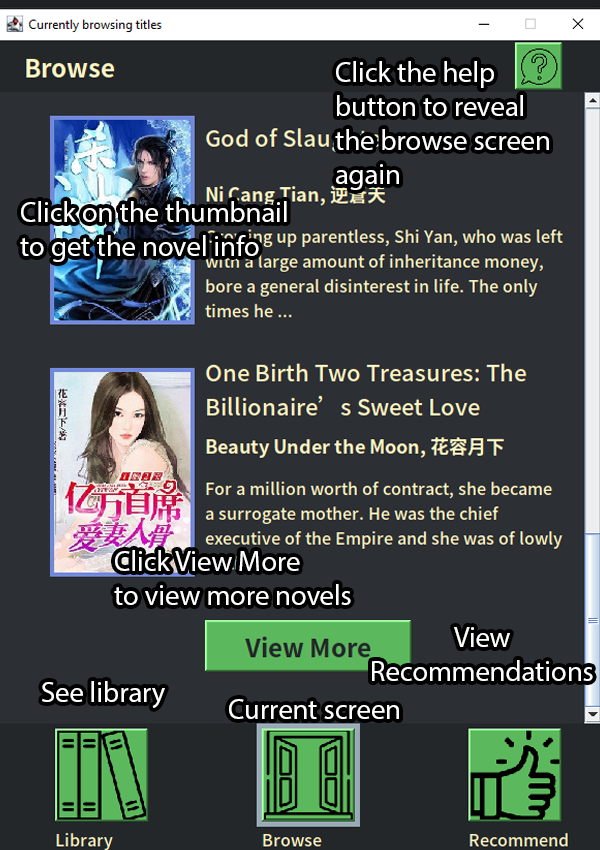
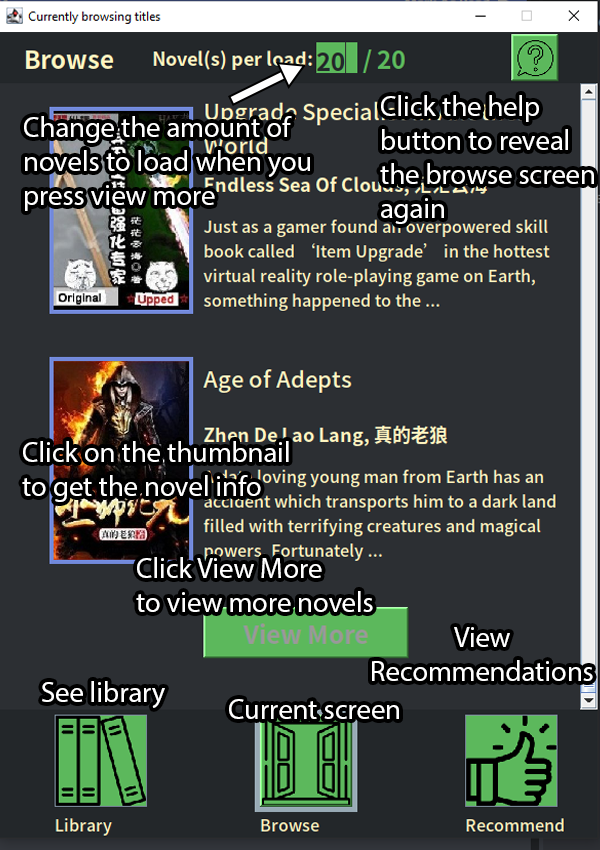
Allow customization for novelsPerLoad on Browse

diff --git a/src/gui/Browse.java b/src/gui/Browse.java
@@ -4,9 +4,7 @@ import objects.Novel;
 import org.jsoup.Jsoup;
 import org.jsoup.nodes.Document;
 import org.jsoup.nodes.Element;
-import tools.ButtonStyle;
-import tools.Design;
-import tools.Misc;
+import tools.*;
 
 import javax.swing.*;
 import java.awt.*;
@@ -21,11 +19,12 @@ import java.util.ArrayList;
  */
 public class Browse {
     private JFrame frame;
-    public JPanel content = new JPanel();
+    private JPanel content = new JPanel();
     private JPanel top, center, bot, helpPanel;
     private JLabel gif, highlight, helpHighlight;
     private JButton viewMore, help;
     private JScrollPane scroll;
+    private JTextArea jump;
     private SwingWorker worker = null; //allows "multi-threading"
 
     private ArrayList<Novel> list = new ArrayList();
@@ -85,8 +84,7 @@ public class Browse {
         JLabel browseInfo = new JLabel("<html>"+Misc.browseInfo+"</html>");
         browseInfo.setForeground(Design.foreground);
         browseInfo.setFont(Design.novelTextFont);
-        browseInfo.setBorder(BorderFactory.createLineBorder(Color.white));
-        browseInfo.setBounds(50, 50, 500, 400);
+        browseInfo.setBounds(50, 50, 500, 500);
         helpPanel.add(browseInfo);
 
         //annotated help screen
@@ -125,6 +123,28 @@ public class Browse {
         scroll.getVerticalScrollBar().setUnitIncrement(15);
         content.add(scroll);
 
+        JLabel jumpInformation = new JLabel("Novel(s) per load:");
+        jumpInformation.setForeground(Design.foreground);
+        jumpInformation.setFont(Design.buttonTextFont.deriveFont(18f));
+        jumpInformation.setBounds(150, 0, 160, 50);
+        top.add(jumpInformation);
+
+        jump = new JTextArea();
+        jump.setBackground(Design.novelButtonBackground);
+        jump.setForeground(Design.screenBackground);
+        jump.setFont(Design.buttonTextFont);
+        jump.setDocument(new TextAreaLimit(2));
+        jump.setText(Integer.toString(amountPerLoad));
+        jump.setBounds(310, 10, 40, 30);
+        top.add(jump);
+
+        //shows the maximum chapter the user can jump too before an error occurs
+        JLabel max = new JLabel("/ 20");
+        max.setForeground(Design.novelButtonBackground);
+        max.setFont(Design.buttonTextFont);
+        max.setBounds(355, 10, 75, 30);
+        top.add(max);
+
         //loads up initial novels
         loadChapters();
 
@@ -151,7 +171,6 @@ public class Browse {
         novelHeight = (int)(Misc.novel.getThumbnailHeight()*scaleFactor);
 
         //panel to display the mangas
-        content.setBackground(Color.GREEN);
         content.setBounds(0, 0, Misc.WIDTH, 1000);
         content.setLayout(new BorderLayout());
         frame.add(content);
@@ -287,7 +306,6 @@ public class Browse {
         JButton window = new JButton();
         window.setIcon(new ImageIcon(new ImageIcon("./res/window.png").getImage().getScaledInstance(90, 90, 0)));
         window.setBounds(255, 5, 90, 90);
-        window.setBorder(BorderFactory.createLineBorder(Color.white));
         window.setBackground(Design.novelButtonBackground);
         window.addMouseListener(new ButtonStyle());
         window.setFocusable(false);
@@ -305,7 +323,6 @@ public class Browse {
         JButton recommend = new JButton();
         recommend.setIcon(new ImageIcon(new ImageIcon("./res/recommend.png").getImage().getScaledInstance(90, 90, 0)));
         recommend.setBounds(455, 5, 90, 90);
-        recommend.setBorder(BorderFactory.createLineBorder(Color.white));
         recommend.setBackground(Design.novelButtonBackground);
         recommend.addMouseListener(new ButtonStyle());
         recommend.setFocusable(false);
@@ -347,6 +364,17 @@ public class Browse {
             novelInfo = new NovelInfo(frame, this, novelPlaceHolder, library, recommend);
         }
         else if(location==0) { //view more
+            //checks if the text is a valid number
+            if(WebScraping.isInteger(jump.getText())) {
+                int jumpCount = Integer.parseInt(jump.getText());
+                //if it is not, reset to the default value
+                if(jumpCount<1 || jumpCount>20) {
+                    amountPerLoad = 4;
+                    jump.setText(Integer.toString(4));
+                } else {
+                    amountPerLoad = jumpCount;
+                }
+            }
             loadChapters();
         }
         else if(location==1) { //go to library
@@ -385,7 +413,7 @@ public class Browse {
                 else if(location==0) {
                     viewMore.setBounds(200, 50 + list.size() * (novelHeight + 50), 200, 50);
                     viewMore.setVisible(true);
-                    viewMore.setEnabled(page > 7 ? false : true); //only 7 pages for hot novels
+                    viewMore.setEnabled(page > 6 ? false : true); //only 7 pages for hot novels
                 } else if(location==3) {
                     content.setVisible(false);
                     recommend.getPanel().setVisible(true);

diff --git a/src/tools/Misc.java b/src/tools/Misc.java
@@ -37,22 +37,24 @@ public class Misc {
     public static String libraryInfo = "This is your library, the place where you can view your bookmarked novels. " +
         "Bookmarked novels will have their reading history tracked, which means that you will be able to resume " +
         "from your last read chapter if you click the \"Resume\" button in the novel information screen. To get to the " +
-        "novel information screen, you can click on the novel thumbnail from either your library, browse screen, or recommendation " +
-        "screen.\n" +
+        "novel information screen, you can click on the novel thumbnail from either your library (if you bookmark a novel)" +
+        ", browse screen, or recommendation screen.<br><br>" +
         "To browse titles, click on the browse icon (window) down below. To view recommended novels based " +
-        "on your selection, click on the recommend icon (thumbs-up) down below as well.\nClick the help buttton to go back " +
-        "to where you came from.";
+        "on your bookmarked novels, click on the recommend icon (thumbs-up) down below as well. Click the help button to go back " +
+        "to where you came from or the \"More Help\" button for more information.";
     public static String browseInfo = "This is where you can browse for new novels. By clicking on the \"View More\" button, " +
-        "you will be able to load more novels. These novels are the hottest novels on novelfull.com, the source of these novels. " +
-        "If a novel's thumbnail, title, author, or summary intrigues you, click on the novel thumbnail and the novel information will appear." +
-        " If you want to test read it before you add it to your library, you can read away. Just note that progress will not be tracked until " +
-        "the novel is added to your library.\n" +
+        "you will be able to load more novels. To change the amount of novels per load, edit the textfield above. Acceptable values include 1-20." +
+        " These novels are the hottest novels on novelfull.com, the source of these novels. If a novel's thumbnail, title, author, or summary intrigues you, " +
+        "click on the novel thumbnail and the novel information will appear. If you want to test read the novel before you add it to your library, you can " +
+        "read away. Just note that progress will not be tracked until the novel is added to your library.<br><br>" +
         "To go back to your library, click on the book icon (stack of books) down below. To view " +
-        "recommended novels based on your selection, click on the recommend icon (thumbs-up) down below as well.";
+        "recommended novels based on your bookmarked novels, click on the recommend icon (thumbs-up) down below as well. Click the help button to go back" +
+        " to where you came from or the \"More Help\" button for more information.";
     public static String recommendInfo = "This is where novel recommendations are made based on the novels in your library. " +
         "For the recommendation to be useful, you are required to have a minimum of 5 novels in your library with a total of at " +
         "least 3 unique genres. Recommended novels will never exist in your current library. The algorithm finds the most commonly " +
-        "read genres and web-scrapes for the hottest novels related to that category.\n" +
+        "read genres and web-scrapes for the hottest novels related to that category.<br><br>" +
         "Everytime the recommended page is loaded, a new set of recommendations are made. To go back to your library, click on the book " +
-        "icon (stack of books) down below. To browse titles click on the browse icon (window) down below.";
+        "icon (stack of books) down below. To browse titles click on the browse icon (window) down below. Click the help button to go back to " +
+        "where you came from or the \"More Help\" button for more information.";
 }

diff --git a/src/gui/Library.java b/src/gui/Library.java
@@ -100,7 +100,7 @@ public class Library {
         JLabel libraryInfo = new JLabel("<html>"+Misc.libraryInfo+"</html>");
         libraryInfo.setForeground(Design.foreground);
         libraryInfo.setFont(Design.novelTextFont);
-        libraryInfo.setBounds(50, 50, 500, 300);
+        libraryInfo.setBounds(50, 50, 500, 400);
         helpPanel.add(libraryInfo);
 
         //annotated help screen
@@ -149,7 +149,6 @@ public class Library {
         novelHeight = (int)(Misc.novel.getThumbnailHeight()*scaleFactor);
 
         //panel to display personal library
-        content.setBackground(Color.green);
         content.setBounds(0, 0, Misc.WIDTH, Misc.HEIGHT);
         content.setLayout(new BorderLayout());
         frame.add(content);
@@ -321,7 +320,7 @@ public class Library {
             JLabel info = new JLabel("<html>"+Misc.emptyLibrary+"</html>");
             info.setForeground(Design.foreground);
             info.setFont(Design.novelTextFont);
-            info.setBounds(125, 100, 350, 300);
+            info.setBounds(50, 50, 500, 400);
             center.add(info);
         } else { //display novels
             for (int i = 0; i < bookshelf.size(); i++) {

diff --git a/src/gui/Recommend.java b/src/gui/Recommend.java
@@ -87,7 +87,7 @@ public class Recommend {
         JLabel recommendInfo = new JLabel("<html>"+Misc.recommendInfo+"</html>");
         recommendInfo.setForeground(Design.foreground);
         recommendInfo.setFont(Design.novelTextFont);
-        recommendInfo.setBounds(50, 50, 500, 300);
+        recommendInfo.setBounds(50, 50, 500, 400);
         helpPanel.add(recommendInfo);
 
         //annotated help screen
@@ -137,7 +137,6 @@ public class Recommend {
 
         //panel to display personal library
         content.setVisible(false);
-        content.setBackground(Color.green);
         content.setBounds(0, 0, Misc.WIDTH, Misc.HEIGHT);
         content.setLayout(new BorderLayout());
         frame.add(content);
@@ -236,7 +235,7 @@ public class Recommend {
             JLabel info = new JLabel("<html>"+Misc.notEnoughTitles+"</html>");
             info.setForeground(Design.foreground);
             info.setFont(Design.novelTextFont);
-            info.setBounds(125, 100, 350, 200);
+            info.setBounds(50, 50, 500, 400);
             center.add(info);
         }
     }

diff --git a/src/tools/TextAreaLimit.java b/src/tools/TextAreaLimit.java
@@ -9,13 +9,16 @@ import javax.swing.text.PlainDocument;
  * customization for JTextAreas
  */
 public class TextAreaLimit extends PlainDocument {
-
+    private int limit;
+    public TextAreaLimit(int limit) {
+        this.limit = limit;
+    }
     // this changes the maximum size allowed for JTextArea
-    // if the inserted length + existing length is under 4 (max length of chapter #)
-    // since there is no chapter 10k+, the character will be inserted, else, nothing occurs
+    // if the inserted length + existing length is under 4 (max length of chapter #) for chapters
+    // or two for the browse screen novel per load, the character will be inserted, else, nothing occurs
     @Override
     public void insertString(int offset, String str, AttributeSet attr) throws BadLocationException {
-        if ((getLength() + str.length()) <= 4) {
+        if ((getLength() + str.length()) <= limit) {
             super.insertString(offset, str, attr);
         }
     }

diff --git a/src/gui/NovelDisplay.java b/src/gui/NovelDisplay.java
@@ -89,7 +89,7 @@ public class NovelDisplay {
         skip.setBackground(Design.novelButtonBackground);
         skip.setForeground(Design.screenBackground);
         skip.setFont(Design.buttonTextFont);
-        skip.setDocument(new TextAreaLimit());
+        skip.setDocument(new TextAreaLimit(4));
         skip.setText(Integer.toString(novel.getChapterRange()[1]-1));
         skip.setBounds(200, 30, 60, 40);
 
